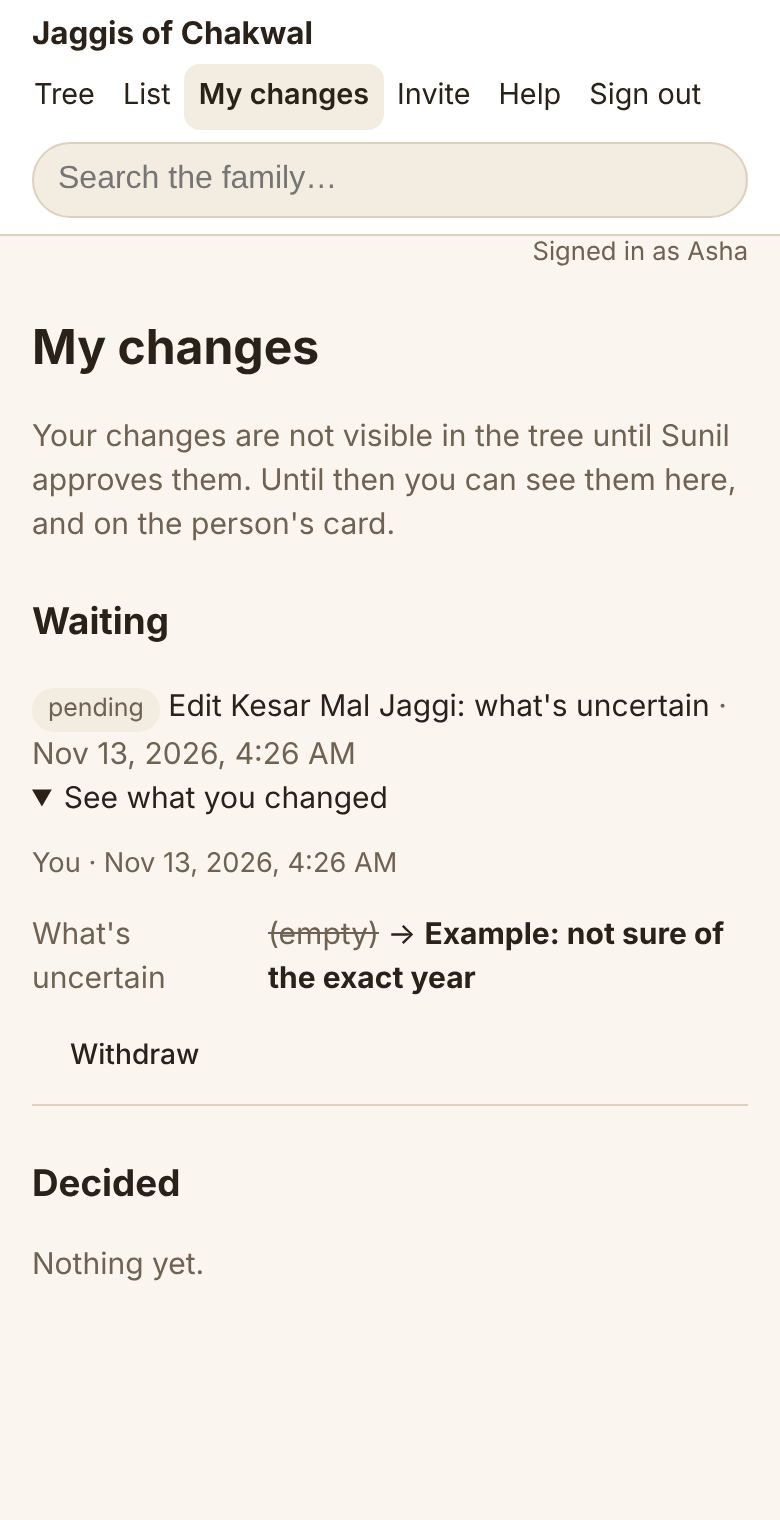
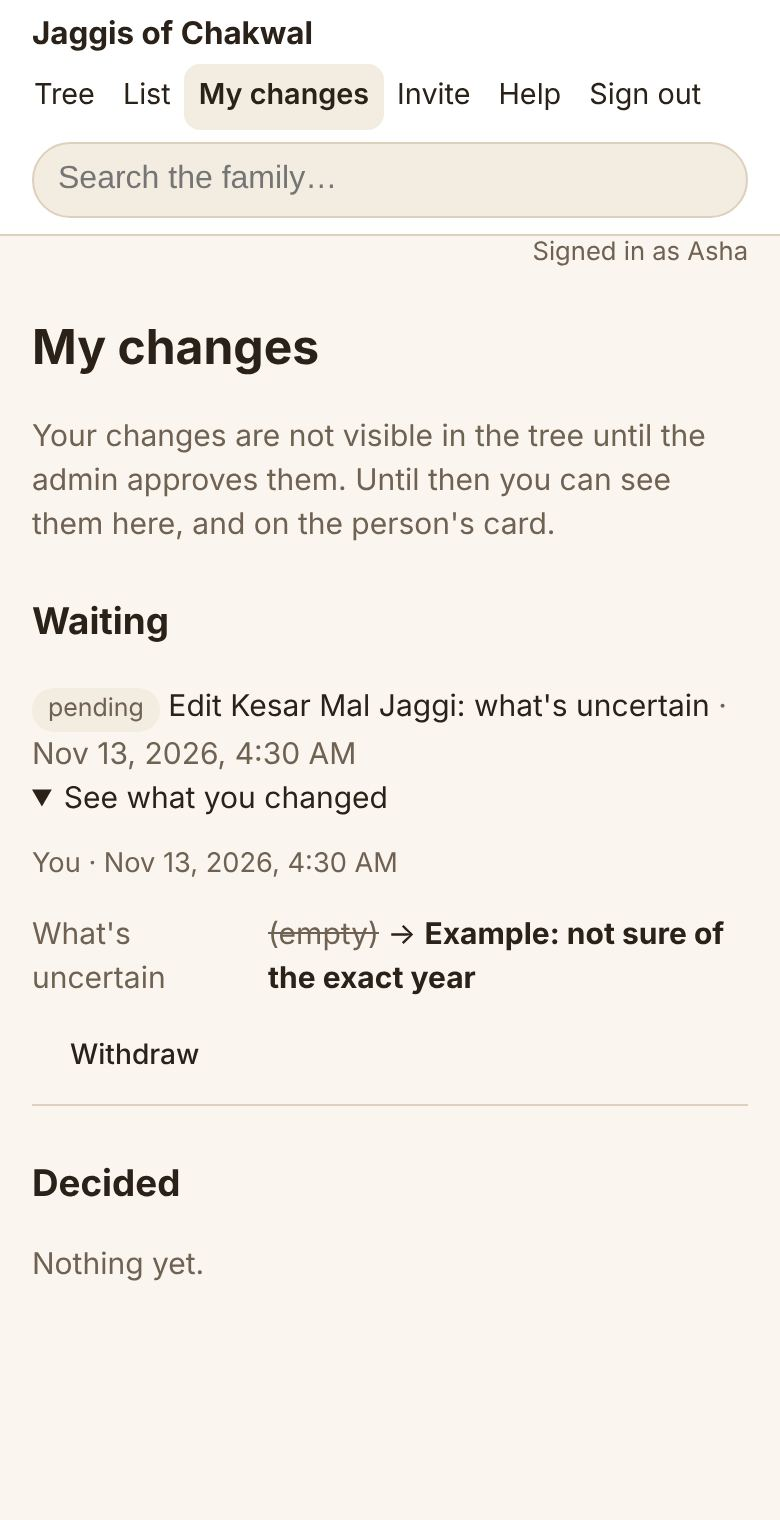
Say 'admin' instead of naming Sunil as the approver
Claude-Session: https://claude.ai/code/session_01JLtp1VAE6cD4aaLHUpnewB

diff --git a/site/help.html b/site/help.html
@@ -38,7 +38,7 @@
 
   <main class="help">
     <h1>How to use the family tree</h1>
-    <p>This website is the family tree of the Jaggis of Chakwal, starting from Bakhshi Bhanna Mal Jaggi. Anyone with the link can look at it. Family members who were invited can also add and correct information. <strong>Changes are not visible right away:</strong> Sunil, the administrator, checks each one first, and it appears once he approves it.</p>
+    <p>This website is the family tree of the Jaggis of Chakwal, starting from Bakhshi Bhanna Mal Jaggi. Anyone with the link can look at it. Family members who were invited can also add and correct information. <strong>Changes are not visible right away:</strong> the admin checks each one first, and it appears once approved.</p>
 
     <div class="toc">
       <a href="#sign-in">1. Signing in</a>
@@ -55,7 +55,7 @@
     <p>You only need to sign in to add or change something. There is no password.</p>
     <ol>
       <li>Open the site and tap <span class="ui">Sign in</span> at the top right.</li>
-      <li>Type the email address Sunil invited, and tap <span class="ui">Email me a sign-in link</span>.</li>
+      <li>Type the email address you were invited with, and tap <span class="ui">Email me a sign-in link</span>.</li>
       <li>Open the email from <span class="ui">Sunil Jaggi</span>. It arrives within a minute. If not, look in your Spam folder.</li>
       <li><strong>Easiest:</strong> go back to the site and type the <strong>6-digit code</strong> from the email into the box, then tap <span class="ui">Sign in with code</span>.<br>Or tap the link in the email.</li>
     </ol>
@@ -104,10 +104,10 @@
     </ul>
     <div class="shots">
       <figure class="shot"><img src="img/help/card-actions.jpg" width="390" height="760" loading="lazy" alt="The buttons at the bottom of a person's card."><figcaption>The buttons at the bottom of a person's card.</figcaption></figure>
-      <figure class="shot"><img src="img/help/suggest-edit.jpg" width="390" height="760" loading="lazy" alt="Suggesting an edit. Nothing changes until Sunil approves it."><figcaption>Suggesting an edit. Nothing changes until Sunil approves it.</figcaption></figure>
+      <figure class="shot"><img src="img/help/suggest-edit.jpg" width="390" height="760" loading="lazy" alt="Suggesting an edit. Nothing changes until the admin approves it."><figcaption>Suggesting an edit. Nothing changes until the admin approves it.</figcaption></figure>
     </div>
     <p>For births and deaths, only the <strong>year</strong> is recorded, never the full date. Years can be approximate, for example <em>c. 1925</em> or <em>1930s</em>. Use <strong>Sources</strong> to say where the information came from (for example "Dadi's memory" or "school records"), and <strong>What's uncertain</strong> for anything you're not sure about.</p>
-    <p>After you tap <span class="ui">Send for approval</span>, your change waits for Sunil. <strong>It won't show in the tree until he approves it.</strong> While it waits, you can see it on that person's card in a yellow <strong>Waiting for Sunil's approval</strong> box (only you see this), and under <span class="ui">My changes</span>, where you can also withdraw it. Don't worry about making a mistake; nothing changes until it's approved.</p>
+    <p>After you tap <span class="ui">Send for approval</span>, your change waits for the admin. <strong>It won't show in the tree until it is approved.</strong> While it waits, you can see it on that person's card in a yellow <strong>Waiting for admin approval</strong> box (only you see this), and under <span class="ui">My changes</span>, where you can also withdraw it. Don't worry about making a mistake; nothing changes until it's approved.</p>
     <div class="shots">
       <figure class="shot"><img src="img/help/pending-card.jpg" width="390" height="760" loading="lazy" alt="Your change, waiting for approval, on the person's card. Only you see it."><figcaption>Your change, waiting for approval, on the person's card. Only you see it.</figcaption></figure>
       <figure class="shot"><img src="img/help/my-changes.jpg" width="390" height="760" loading="lazy" alt="My changes: everything you sent, with what you changed."><figcaption>My changes: everything you sent, with what you changed.</figcaption></figure>
@@ -142,17 +142,17 @@
     <ul>
       <li><strong>Names and who is related to whom</strong> can be seen by anyone with the link.</li>
       <li><strong>Birth years, places, notes and photos</strong> can be marked <em>Public</em> (anyone) or <em>Branch only</em> (only signed-in family in that branch). Details of living people are <em>Branch only</em> unless you choose otherwise.</li>
-      <li>Your branch is set by Sunil when he invites you. It covers your own line and your spouse's line.</li>
+      <li>Your branch is set when you are invited, by who you are in the tree. It covers your own line and your spouse's line.</li>
     </ul>
 
     <h2 id="trouble">8. If something isn't working</h2>
     <ul>
-      <li><strong>"This email hasn't been invited yet":</strong> ask Sunil, or the relative who invited you, to invite that exact email address.</li>
+      <li><strong>"This email hasn't been invited yet":</strong> ask the admin, or the relative who invited you, to invite that exact email address.</li>
       <li><strong>No email arrived:</strong> check Spam, wait a minute, and make sure the address is spelled correctly.</li>
       <li><strong>"Link has expired or was already used":</strong> ask for a new email and use the code from the newest one.</li>
       <li><strong>Signed in but can't see someone's dates:</strong> those details are marked <em>Branch only</em> for another branch of the family.</li>
     </ul>
-    <p>For anything else, email Sunil.</p>
+    <p>For anything else, contact the admin (Sunil Jaggi).</p>
 
     <a class="btn primary back" href="./">Back to the family tree</a>
   </main>

diff --git a/site/js/admin.js b/site/js/admin.js
@@ -128,7 +128,7 @@ export async function renderMine(container) {
   const item = (r) => h('li',
     h('span.tag' + (r.status === 'approved' ? '.ok' : r.status === 'rejected' ? '.warn' : ''), r.status === 'rejected' ? 'declined' : r.status),
     ' ', r.summary || KIND_TITLE[r.kind], h('span.muted', ` · ${formatWhen(r.submitted_at)}`),
-    r.review_note ? h('div.muted.small', `${config.adminName}'s note: ${r.review_note}`) : null,
+    r.review_note ? h('div.muted.small', `Admin's note: ${r.review_note}`) : null,
     r.status === 'pending' ? h('details.pending-detail', h('summary', 'See what you changed'), describe(r, () => 'You')) : null,
     r.status === 'pending' ? h('button.btn.small.ghost', { type: 'button', onclick: async () => {
       if (!(await confirmDialog('Withdraw this change?', 'Withdraw'))) return;
@@ -141,7 +141,7 @@ export async function renderMine(container) {
     } }, 'Withdraw') : null);
   clear(container,
     h('h1', 'My changes'),
-    h('p.muted', `Your changes are not visible in the tree until ${config.adminName} approves them. Until then you can see them here, and on the person's card.`),
+    h('p.muted', `Your changes are not visible in the tree until the admin approves them. Until then you can see them here, and on the person's card.`),
     h('h2', 'Waiting'), pending.length ? h('ul.history', pending.map(item)) : h('p.muted', 'Nothing waiting.'),
     h('h2', 'Decided'), done.length ? h('ul.history', done.map(item)) : h('p.muted', 'Nothing yet.'));
 }

diff --git a/site/js/panel.js b/site/js/panel.js
@@ -50,7 +50,7 @@ export function renderPanel(container, id, { onSelect, onRoot, onClose, onSignIn
         pl(r).parent_id, pl(r).child_id, pl(r).partner_a, pl(r).partner_b].includes(id));
       if (!mine.length) return;
       clear(pendingBox,
-        h('h3', `Waiting for ${config.adminName}'s approval`),
+        h('h3', 'Waiting for admin approval'),
         h('p.muted.small', 'Only you can see these until they are approved.'),
         mine.map((r) => h('details', h('summary', r.summary || 'Change'), describe(r, () => 'You'))),
         h('a.small', { href: '#/mine' }, 'See all my changes'));
@@ -113,7 +113,7 @@ export function renderPanel(container, id, { onSelect, onRoot, onClose, onSignIn
         h('button.btn.small.ghost', { type: 'button', onclick: () => openLinkForm(p) }, 'Link to someone already in the tree'),
         h('button.btn.small.ghost.danger', { type: 'button', onclick: () => requestDelete(p) }, store.isAdmin ? 'Remove from tree' : 'Ask to remove'),
       ] : !store.preview
-        ? h('p.muted.small', 'Family members can ', h('button.link', { type: 'button', onclick: onSignIn }, 'sign in'), ` to suggest changes. ${config.adminName} approves every change.`)
+        ? h('p.muted.small', 'Family members can ', h('button.link', { type: 'button', onclick: onSignIn }, 'sign in'), ' to suggest changes. The admin approves every change.')
         : null),
     h('p.muted.small.hint', relationHint(fam, id)),
   );

diff --git a/site/js/forms.js b/site/js/forms.js
@@ -26,7 +26,7 @@ async function send(kind, payload, opts, close) {
   try {
     const { applied } = await submitChange(kind, payload, opts);
     close();
-    toast(applied ? 'Saved.' : `Sent to ${config.adminName} for approval. You can follow it under "My changes".`, 'ok');
+    toast(applied ? 'Saved.' : 'Sent for admin approval. You can follow it under "My changes".', 'ok');
   } catch (e) {
     console.error(e);
     toast(e.message || 'Something went wrong.', 'error');
@@ -206,7 +206,7 @@ export function openPhotoForm(person) {
 }
 
 export async function removePhoto(person) {
-  if (!(await confirmDialog(`Remove the photo of ${shortName(person)}?${store.isAdmin ? '' : ` ${config.adminName} will check this first.`}`, 'Remove photo'))) return;
+  if (!(await confirmDialog(`Remove the photo of ${shortName(person)}?${store.isAdmin ? '' : ' The admin will check this first.'}`, 'Remove photo'))) return;
   await send('remove_photo', { person_id: person.id }, { target: person.id, summary: `Remove photo of ${shortName(person)}` }, () => {});
 }
 

diff --git a/site/js/invite.js b/site/js/invite.js
@@ -33,7 +33,7 @@ export function inviteMessage({ email, display_name }, fromName) {
     '',
     `You only sign in once on each phone or computer. A short guide: ${site}help.html`,
     '',
-    `Please note: changes you make are not visible right away. ${config.adminName}, the administrator, checks each one first, and it appears in the tree once approved. So don't worry about mistakes.`,
+    `Please note: changes you make are not visible right away. The admin checks each one first, and it appears in the tree once approved. So don't worry about mistakes.`,
     '',
     fromName ? `With love,\n${fromName}` : '',
   ].join('\n').trim();

diff --git a/site/js/data.js b/site/js/data.js
@@ -138,7 +138,7 @@ export async function verifyCode(email, token) {
 function friendlyAuthError(error) {
   const msg = error.message || String(error);
   if (/database error|not been invited/i.test(msg)) {
-    return new Error(`This email hasn't been invited yet. Ask ${config.adminName} to invite you.`);
+    return new Error(`This email hasn't been invited yet. Ask the admin, or a relative who is already signed in, to invite you.`);
   }
   if (/rate limit|security purposes/i.test(msg)) {
     return new Error('Too many sign-in emails were sent. Please wait a minute and try again.');

diff --git a/docs/email-templates.md b/docs/email-templates.md
@@ -36,6 +36,6 @@ The site sends this when the admin adds an invite on the Members page, or a fami
 <p style="margin:24px 0"><a href="{{ .ConfirmationURL }}" style="background:#7a3b12;color:#fff;padding:12px 20px;border-radius:8px;text-decoration:none;font-weight:bold">Open the family tree and sign in</a></p>
 <p>This button signs you in straight away. It works once, within 24 hours. After that, open <a href="https://skjaggi.github.io/Jaggis-from-Chakwal-family-tree/">the family tree</a>, tap <strong>Sign in</strong>, enter this email address, and type the 6-digit code we email you. There is no password.</p>
 <p>You only sign in once on each phone or computer. On a phone, open the site in Safari or Chrome (not inside the Gmail app) and add it to your home screen.</p>
-<p>Please note: changes you make are not visible right away. Sunil, the administrator, checks each one first, and it appears in the tree once approved. So don't worry about mistakes.</p>
+<p>Please note: changes you make are not visible right away. The admin checks each one first, and it appears in the tree once approved. So don't worry about mistakes.</p>
 <p>A short guide: <a href="https://skjaggi.github.io/Jaggis-from-Chakwal-family-tree/help.html">How to use the family tree</a></p>
 ```
